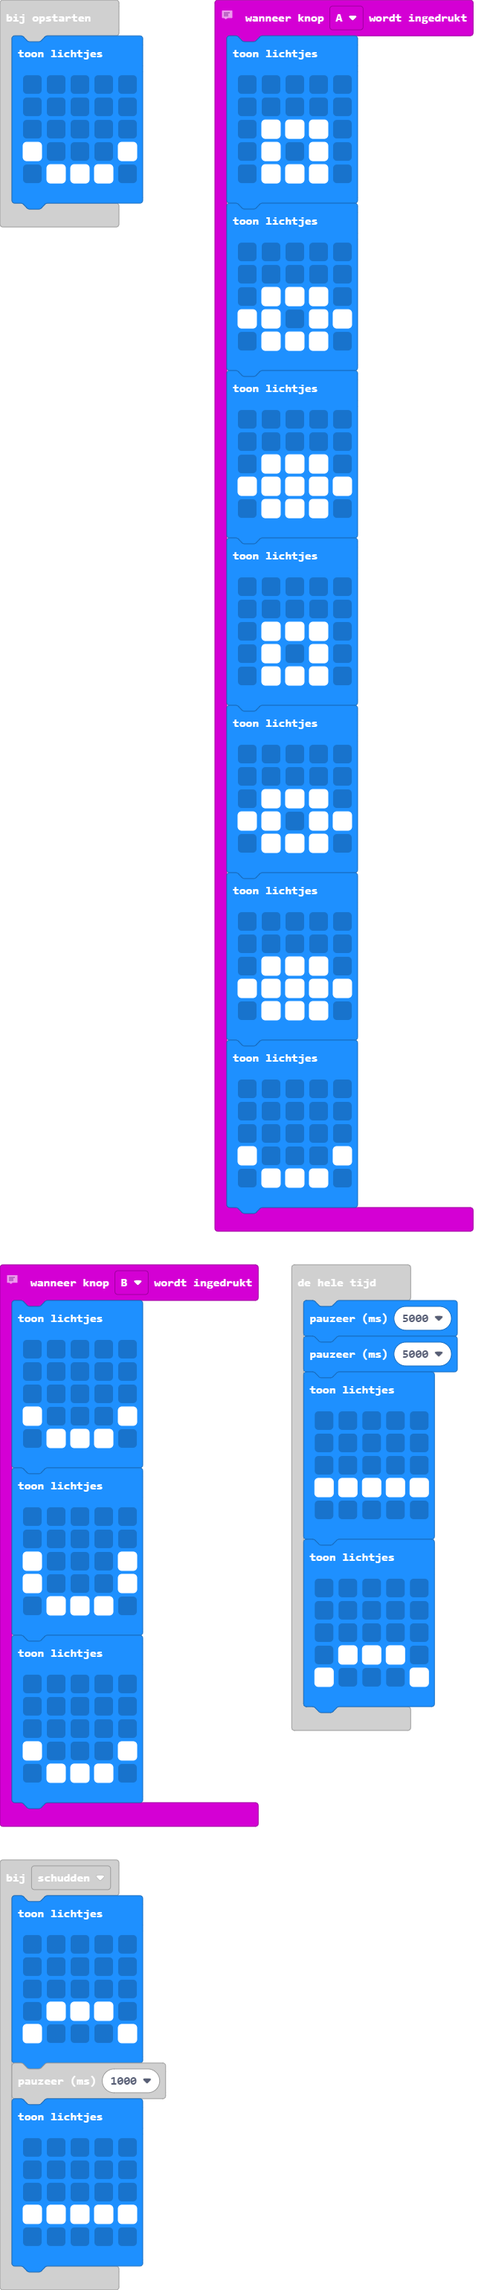
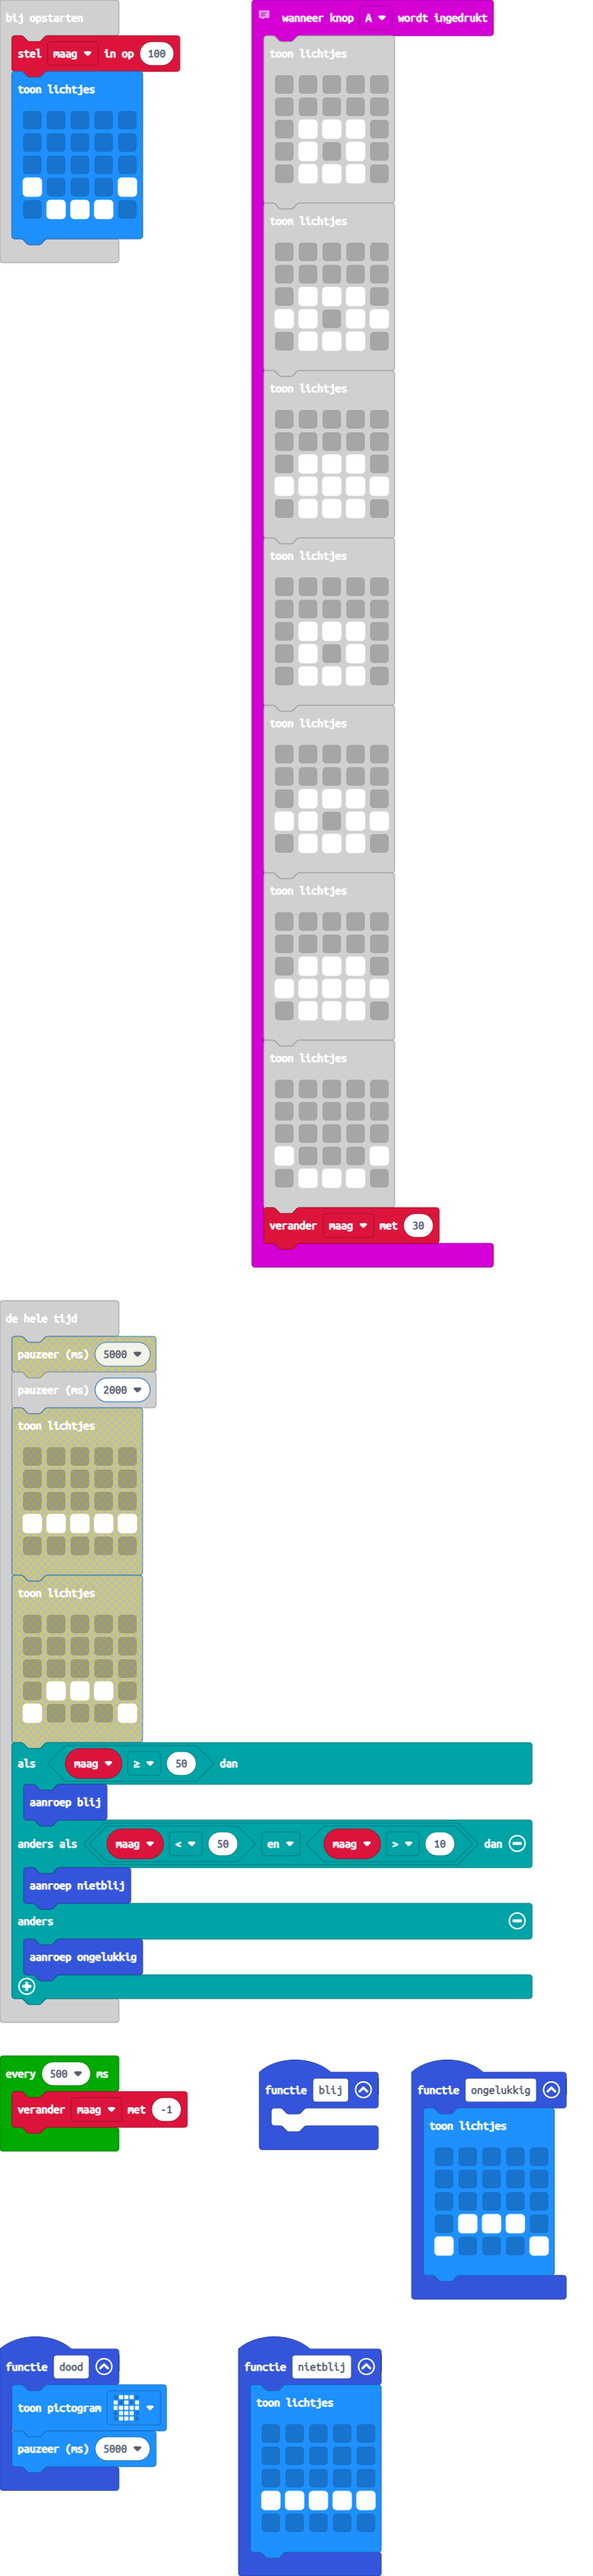
main.blocks, main.ts bijwerken

diff --git a/main.ts b/main.ts
@@ -7,6 +7,15 @@ input.onGesture(Gesture.LogoDown, function () {
         # # # # #
         `)
 })
+function ongelukkig () {
+    basic.showLeds(`
+        . . . . .
+        . . . . .
+        . . . . .
+        . # # # .
+        # . . . #
+        `)
+}
 // eten geven
 input.onButtonPressed(Button.A, function () {
     basic.showLeds(`
@@ -58,6 +67,7 @@ input.onButtonPressed(Button.A, function () {
         # . . . #
         . # # # .
         `)
+    maag += 30
 })
 input.onGesture(Gesture.Shake, function () {
     basic.showLeds(`
@@ -76,6 +86,15 @@ input.onGesture(Gesture.Shake, function () {
         . . . . .
         `)
 })
+function nietblij () {
+    basic.showLeds(`
+        . . . . .
+        . . . . .
+        . . . . .
+        # # # # #
+        . . . . .
+        `)
+}
 // aaien
 input.onButtonPressed(Button.B, function () {
     basic.showLeds(`
@@ -100,6 +119,14 @@ input.onButtonPressed(Button.B, function () {
         . # # # .
         `)
 })
+function blij () {
+	
+}
+function dood () {
+    basic.showIcon(IconNames.Skull)
+    basic.pause(5000)
+}
+let maag = 100
 basic.showLeds(`
     . . . . .
     . . . . .
@@ -107,21 +134,16 @@ basic.showLeds(`
     # . . . #
     . # # # .
     `)
+loops.everyInterval(500, function () {
+    maag += -1
+})
 basic.forever(function () {
-    basic.pause(5000)
-    basic.pause(5000)
-    basic.showLeds(`
-        . . . . .
-        . . . . .
-        . . . . .
-        # # # # #
-        . . . . .
-        `)
-    basic.showLeds(`
-        . . . . .
-        . . . . .
-        . . . . .
-        . # # # .
-        # . . . #
-        `)
+    basic.pause(2000)
+    if (maag >= 50) {
+        blij()
+    } else if (maag < 50 && maag > 10) {
+        nietblij()
+    } else {
+        ongelukkig()
+    }
 })
